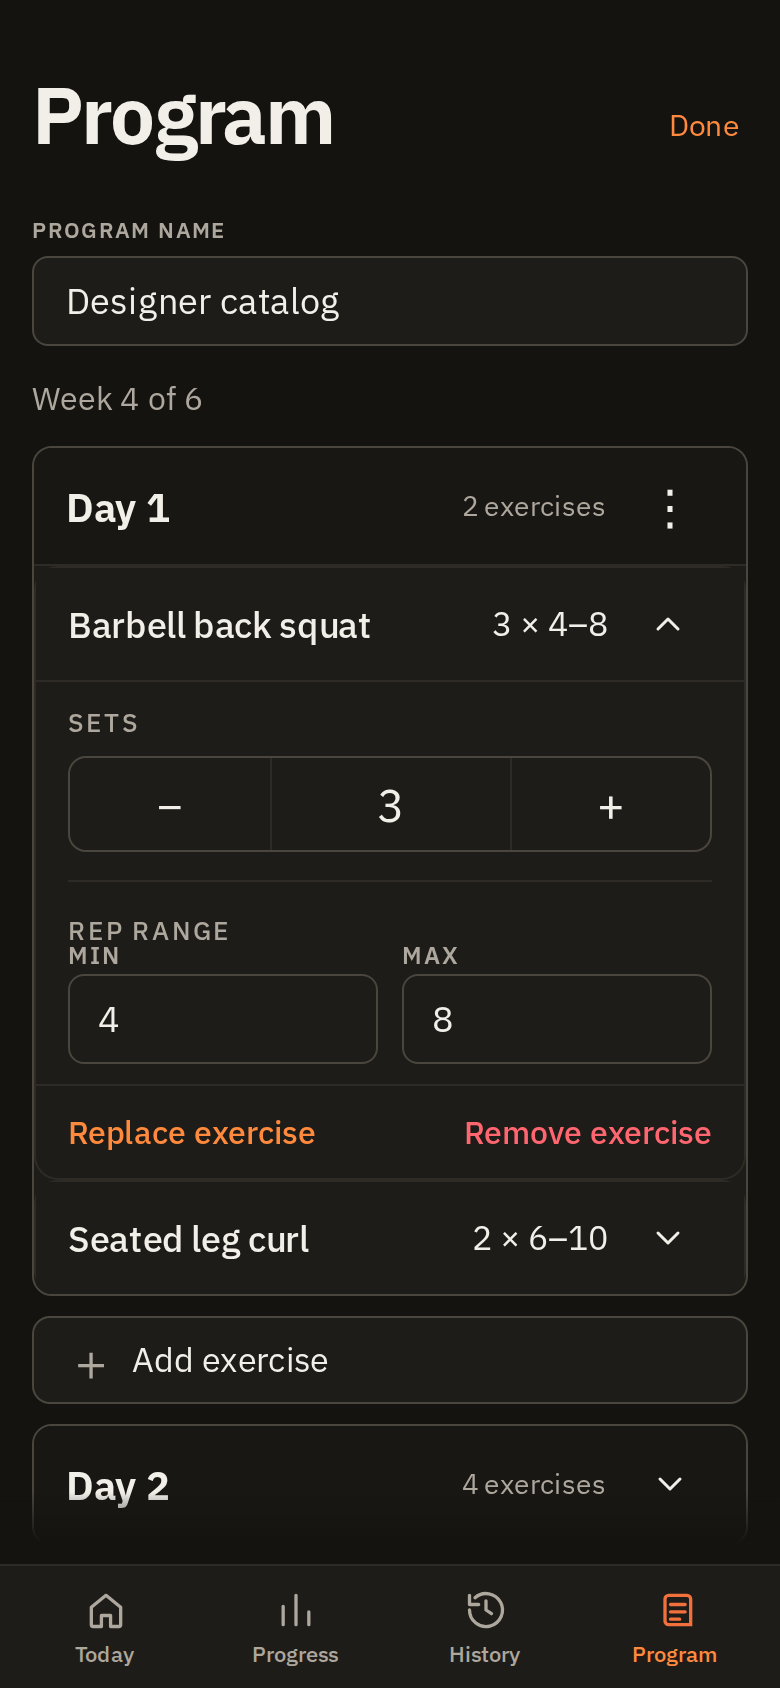
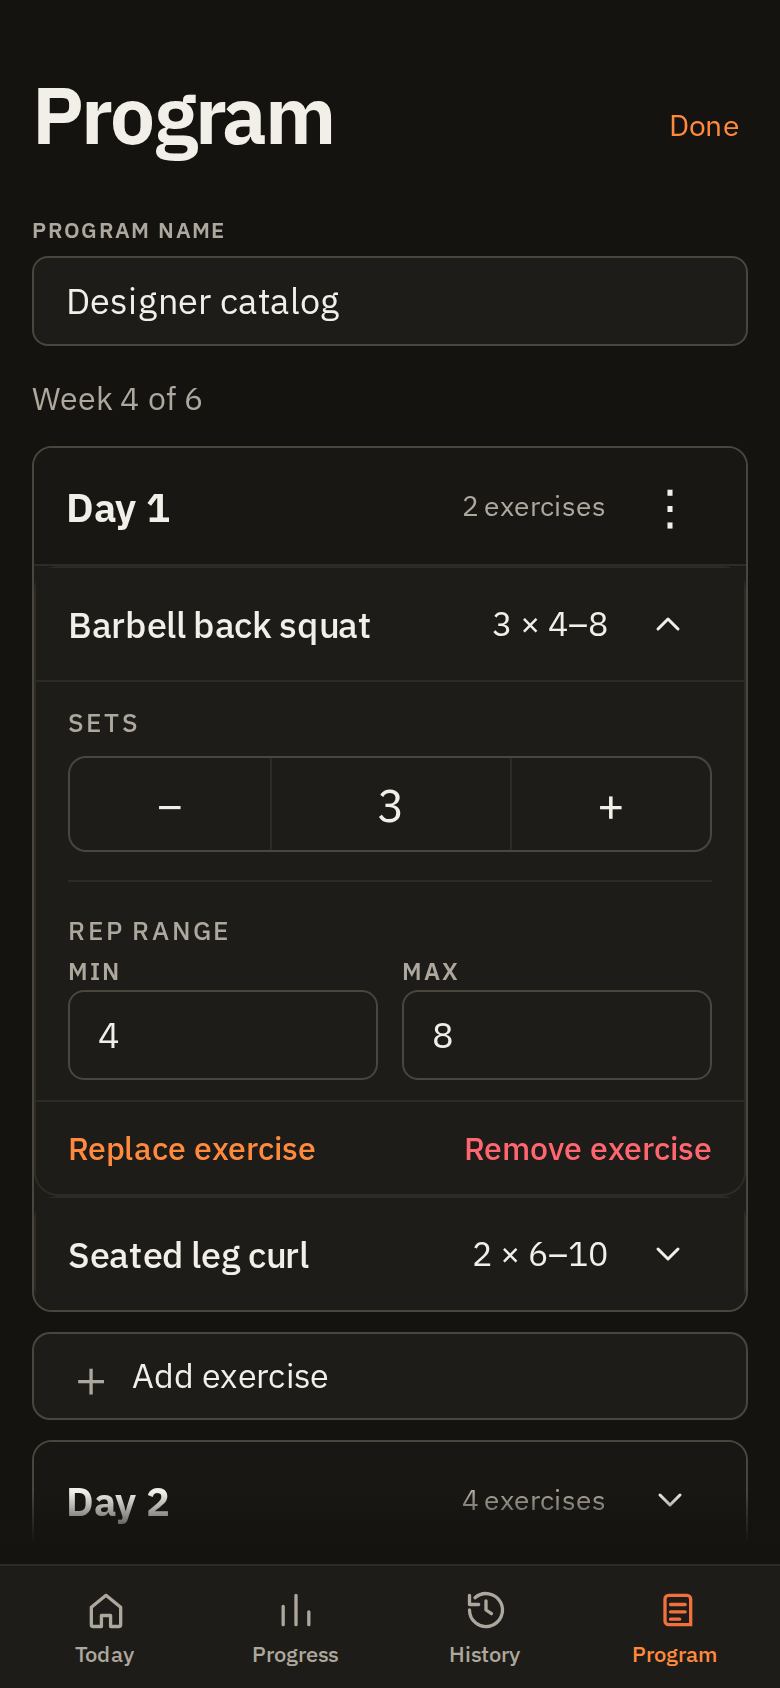
fix(ui): restore non-overlapping filter and editor geometry

Changed region(s): [[0.0308, 0.5545, 0.9538, 0.9242], [0.4923, 0.5545, 0.5846, 0.6469]]

diff --git a/styles.css b/styles.css
@@ -1956,7 +1956,7 @@ td{font-size:13px;color:var(--ink);font-variant-numeric:tabular-nums}
 .program-editor__stepper button:hover{background:var(--well)}
 .program-editor__rep-rule{height:1px;background:var(--rule);margin:0 0 18px}
 .program-editor__range{display:grid;grid-template-columns:1fr 1fr;gap:12px;margin:0;padding:0;border:0}
-.program-editor__range legend{grid-column:1/-1;padding:0;margin:0 0 -4px}
+.program-editor__range legend{grid-column:1/-1;padding:0;margin:0 0 4px}
 .program-editor__range label,.program-editor__more label{display:block;color:var(--ink-soft);font-size:12px;font-weight:600;letter-spacing:.08em;text-transform:uppercase}
 .program-editor__range input,.program-editor__more input{display:block;width:100%;margin-top:6px;padding:11px 14px;background:var(--surface);border:1px solid var(--rule-strong);border-radius:8px;color:var(--ink);font-size:18px;font-weight:400;letter-spacing:0;text-transform:none}
 .program-editor__range input:focus,.program-editor__more input:focus{border-color:var(--accent);outline:2px solid rgba(var(--accent-rgb),.2);outline-offset:1px}
@@ -2052,7 +2052,7 @@ td{font-size:13px;color:var(--ink);font-variant-numeric:tabular-nums}
 .program-editor-installed .program-editor__stepper{width:100%;grid-template-columns:1fr 1.2fr 1fr;min-height:48px}
 .program-editor-installed .program-editor__stepper button,.program-editor-installed .program-editor__stepper output{min-height:46px}
 .program-editor-installed .program-editor__rep-rule{margin:14px 0 16px}
-.program-editor-installed .program-editor__range{row-gap:4px}
+.program-editor-installed .program-editor__range{row-gap:12px}
 .program-editor-installed .program-editor__range input{margin-top:2px;padding:10px 14px}
 .program-editor-installed .program-editor__exercise-actions{margin-top:10px}
 .program-editor-installed .program-editor__exercise-actions button{min-height:46px}

diff --git a/sw.js b/sw.js
@@ -1,9 +1,9 @@
-const CACHE = "repforge-v180";
+const CACHE = "repforge-v181";
 const ASSETS = [
   "./", "./index.html", "./styles.css", "./manifest.webmanifest",
   "./telemetry.js", "./posthog-init.js", "./schedule.js", "./notify.js", "./i18n.js", "./exercises.js",
-  "./progression-engine.js", "./program-compiler.js", "./program-compiler.js?v=180", "./program-entry.js", "./program-entry.js?v=180", "./program-entry-adapter.js", "./program-entry-adapter.js?v=180", "./program-editor.js", "./program-editor.js?v=168",
-  "./shared-setup.js", "./shared-setup.js?v=180", "./app.js", "./app.js?v=180",
+  "./progression-engine.js", "./program-compiler.js", "./program-compiler.js?v=181", "./program-entry.js", "./program-entry.js?v=181", "./program-entry-adapter.js", "./program-entry-adapter.js?v=181", "./program-editor.js", "./program-editor.js?v=168",
+  "./shared-setup.js", "./shared-setup.js?v=181", "./app.js", "./app.js?v=181",
   "./icons/icon.svg", "./icons/favicon-32.png", "./icons/icon-192.png",
   "./icons/icon-512.png", "./icons/icon-1024.png",
   "./icons/icon-maskable-512.png", "./icons/apple-touch-icon.png",

diff --git a/index.html b/index.html
@@ -935,11 +935,11 @@
   <script src="i18n.js"></script>
   <script src="exercises.js"></script>
   <script src="progression-engine.js"></script>
-  <script src="program-compiler.js?v=180"></script>
-  <script src="program-entry.js?v=180"></script>
-  <script src="program-entry-adapter.js?v=180"></script>
+  <script src="program-compiler.js?v=181"></script>
+  <script src="program-entry.js?v=181"></script>
+  <script src="program-entry-adapter.js?v=181"></script>
   <script src="program-editor.js?v=168"></script>
-  <script src="shared-setup.js?v=180"></script>
-  <script src="app.js?v=180"></script>
+  <script src="shared-setup.js?v=181"></script>
+  <script src="app.js?v=181"></script>
 </body>
 </html>
